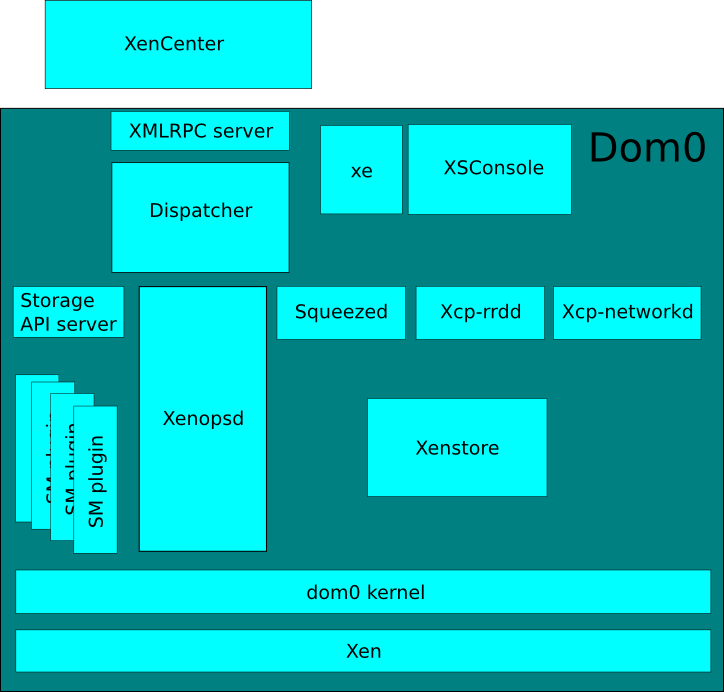
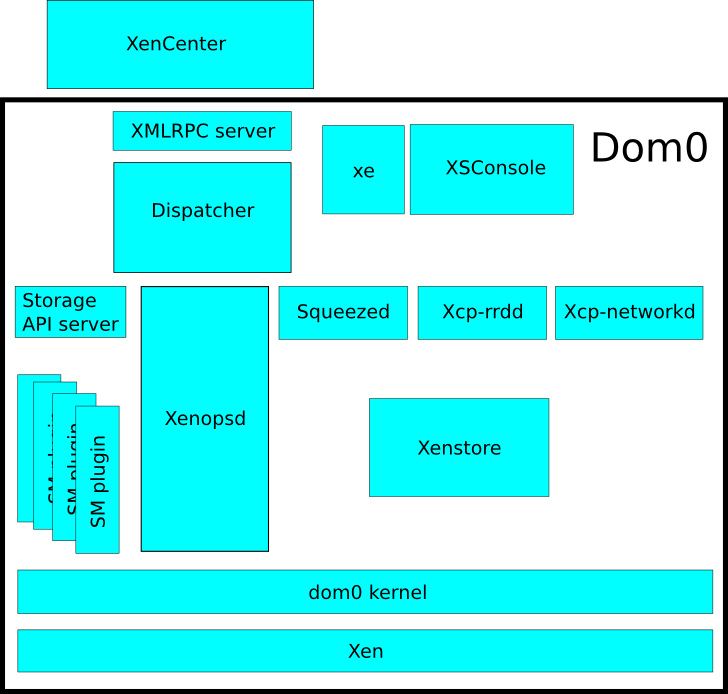
Updates to xapi project slides

diff --git a/files/slides/xensummit13/index.html b/files/slides/xensummit13/index.html
@@ -751,7 +751,8 @@ $ opam install mirage-xen mirage-www
 
     + The core of a XenServer
     + Not just the xapi daemon!
-	  
+    + A mix of a lot of OCaml, some python and glue.
+
     </script>
   </section>
 
@@ -799,7 +800,7 @@ $ opam install mirage-xen mirage-www
     <script type="text/template">
     ## Xapi Project 
 
-    <img style="max-width: 78%;" src="architecture.png" />
+    <img style="max-width: 78%;" src="architecture-xapi-project.png" />
     
     </script>
   </section>
@@ -842,21 +843,23 @@ $ opam install mirage-xen mirage-www
     </script>
   </section>
 
-  <section data-markdown>
-    <script type="text/template">
-    ## Linux Foundation
-
-    + Since joining LF:
-      + Goal to become more distro-friendly.
-      + Split monolithic repositories on existing fault-lines.
-      + 2 repositories (libs and daemons) became ~50.
-      + Libraries became more generally reusable.
-      + Put as much as possible into OPAM for community.
-    </script>
-  </section>
 </section>
 
 <section>
+  <section data-markdown>
+    <script type="text/template">
+    ## What's been happening recently?
+
+    + Lots of sharing with MirageOS community.
+    + Goal to become more distro-friendly.
+    + Split monolithic repositories on existing fault-lines.
+    + 2 repositories (libs and daemons) became ~50.
+    + Libraries became more generally reusable.
+    + Put as much as possible into OPAM for community.
+    + Becoming a better community member!
+    </script>
+  </section>
+
   <section data-markdown>
     <script type="text/template">
     ## xenserver-core
@@ -864,16 +867,54 @@ $ opam install mirage-xen mirage-www
     + Packaging of the components of the Xapi Project.
     + Targetting primarily CentOS 6.4.
     + Secondary focus Ubuntu.
+    + Same codebase as XenServer is using (far far fewer patches).
     + Proof-of-concept that the Xapi Project is usable on a "normal" Linux.
+    + New components: ffs, xenserver-install-wizard, message-switch, xenopsd-libvirt
     + It works!
+    + See Euan's talk later.
     </script>
   </section>
 
-  <section type="text/template">
+  <section data-markdown>
+    <script type="text/template">
+      ## What next? Q4 2013
+      
+      + Continue improving portability.
+      + libxenlight port.
+      + xenostats - efficient metrics gathering.
+      + xen-testvm - fast testing, using MirageOS.
+      + message-switch - in anticipation of the Windsor architecture.
 
+    </script>
   </section>
+
+  <section data-markdown>
+    <script type="text/template">
+    ## What next? 2014
+
+    + Next XenServer release (at some point) - therefore lots of bug fixing!
+    + Better support for Unikernels.
+    + Database improvements.
+    + Continued cleansing of xen-api.git and of xapi (curretly contains Storage API server).
+    + Windsor Architecture support.
+    + XenStore Mirage VM in XenServer.
+    </script>
+  </section>
+
 </section>
 
+<section data-markdown>
+
+  <script type="text/template">
+    ## Join in!
+   
+    + Mirage 1.0 out December 2013.
+    + xenserver-core releases often - testing to come.
+    + All development open and on GitHub <http://github.com/xapi-project>, <http://github.com/mirage>
+    + Pull requests welcome!
+  </script>
+
+</section>
 
 
 
